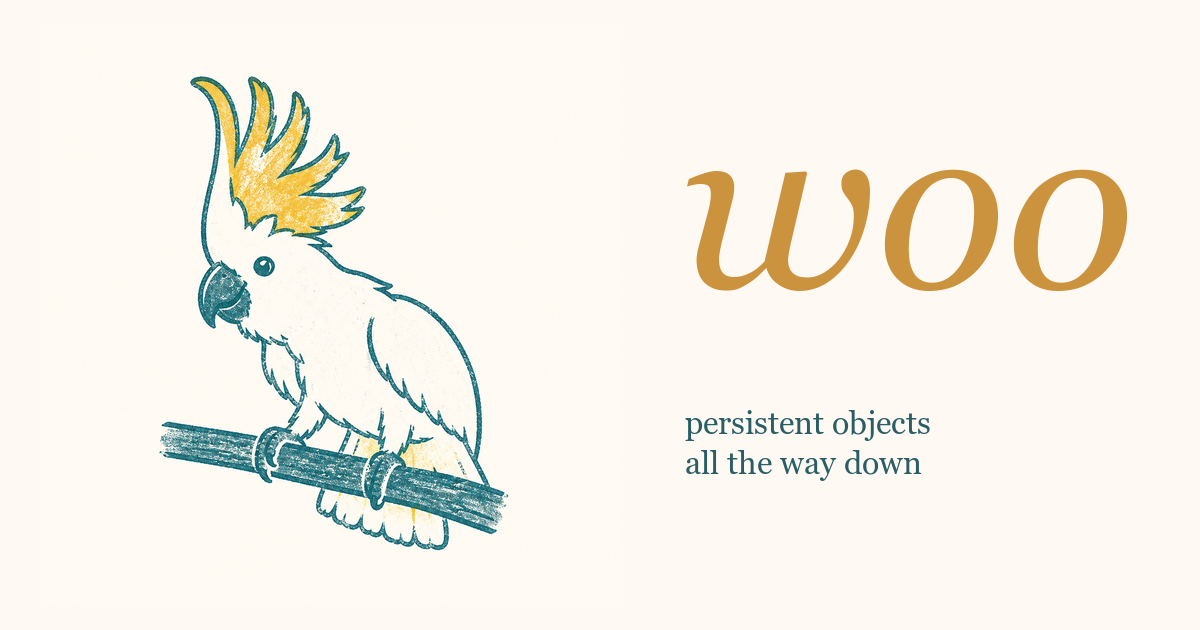
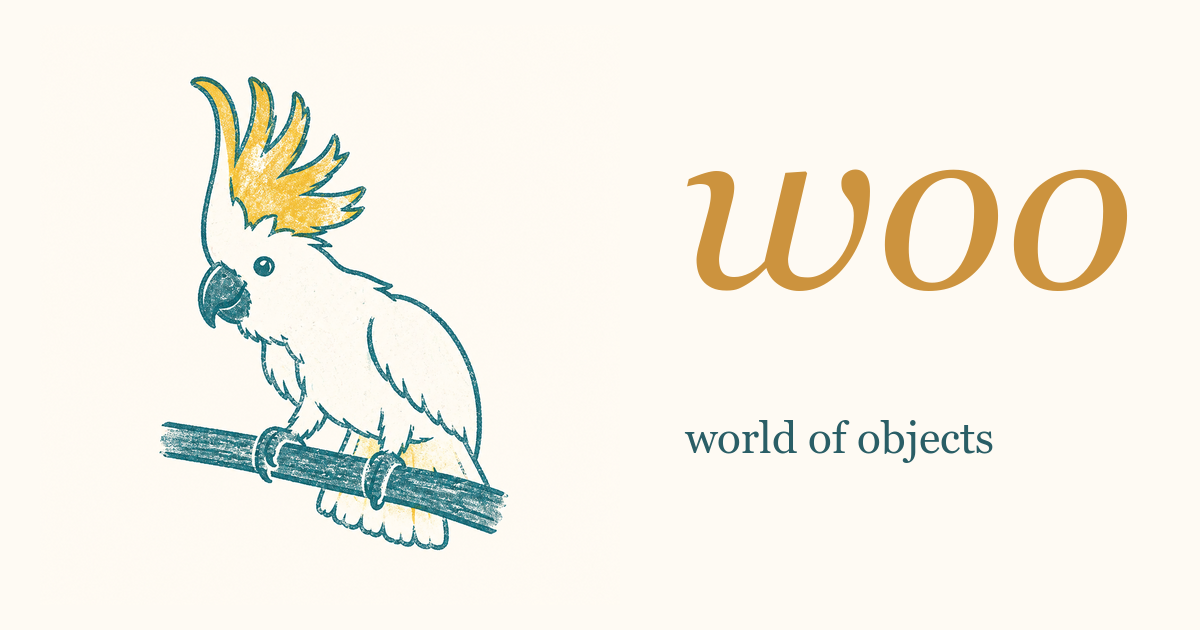
Brand: tagline → world of objects

Changed region(s): [[0.555, 0.6635, 0.8325, 0.754]]

diff --git a/index.html b/index.html
@@ -3,7 +3,7 @@
   <head>
     <meta charset="UTF-8" />
     <meta name="viewport" content="width=device-width, initial-scale=1.0" />
-    <title>woo — persistent objects all the way down</title>
+    <title>woo — world of objects</title>
     <meta name="description" content="A programmable, shared, persistent object world for networked social spaces. Built for humans and agents. A LambdaMOO successor on Cloudflare." />
 
     <link rel="icon" type="image/png" sizes="32x32" href="/icons/favicon-32.png" />
@@ -13,13 +13,13 @@
     <link rel="apple-touch-icon" sizes="180x180" href="/icons/favicon-180.png" />
 
     <meta property="og:title" content="woo" />
-    <meta property="og:description" content="programmable persistent objects, all the way down" />
+    <meta property="og:description" content="world of objects" />
     <meta property="og:image" content="/og-image.png" />
     <meta property="og:type" content="website" />
     <meta property="og:url" content="https://woo.hughpyle.workers.dev/" />
     <meta name="twitter:card" content="summary_large_image" />
     <meta name="twitter:title" content="woo" />
-    <meta name="twitter:description" content="programmable persistent objects, all the way down" />
+    <meta name="twitter:description" content="world of objects" />
     <meta name="twitter:image" content="/og-image.png" />
 
     <meta name="theme-color" content="#fefaf3" />

diff --git a/art/README.md b/art/README.md
@@ -25,10 +25,8 @@ magick -size 1200x630 xc:"$PAPER" \
     -gravity West -geometry +40+0 -composite \
   -font "$GEORGIA_IT" -pointsize 240 -fill "$ACCENT" \
     -gravity NorthWest -annotate +680+170 "woo" \
-  -font "$GEORGIA" -pointsize 32 -fill "$INK" \
-    -gravity NorthWest -annotate +685+410 "persistent objects" \
-  -font "$GEORGIA" -pointsize 32 -fill "$INK" \
-    -gravity NorthWest -annotate +685+450 "all the way down" \
+  -font "$GEORGIA" -pointsize 44 -fill "$INK" \
+    -gravity NorthWest -annotate +685+420 "world of objects" \
   public/og-image.png
 ```
 
